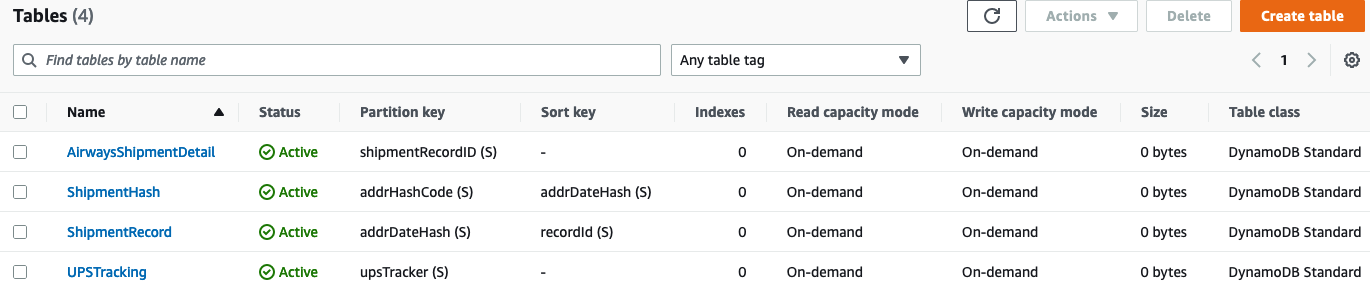
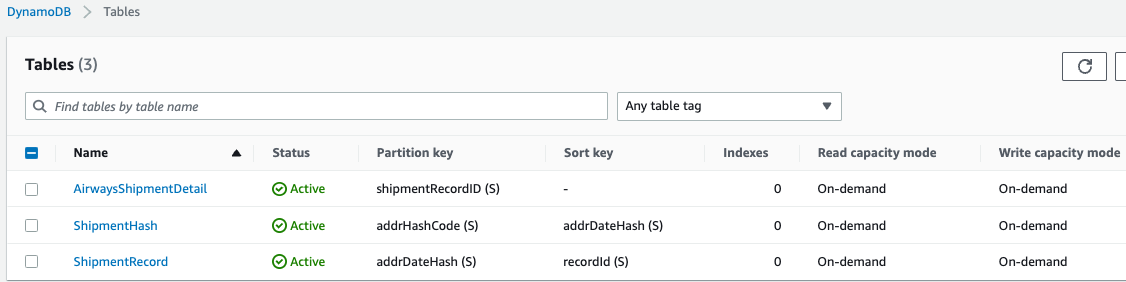
Remove UPSTracking table

diff --git a/functions/dynamodb_table_deletion/ddb_table_handler.py b/functions/dynamodb_table_deletion/ddb_table_handler.py
@@ -6,7 +6,6 @@ import uuid
 SHIPMENT_HASH_TABLE = os.getenv('SHIPMENT_HASH_TABLE')
 SHIPMENT_RECORD_TABLE = os.getenv('SHIPMENT_RECORD_TABLE')
 AIRWAYS_SHIPMENT_TABLE = os.getenv('AIRWAYS_SHIPMENT_TABLE')
-UPS_TRACKER_TABLE = os.getenv('UPS_TRACKER_TABLE')
 
 dynamodb = boto3.resource('dynamodb')
 
@@ -200,16 +199,11 @@ def deleteTableContentWithSortKey(tableName, partitionKey, projectionSortKey):
 def lambda_handler(event, context):
     """
     print('Deleting Table contents for Airways Shipping')
-
     deleteTableContent(AIRWAYS_SHIPMENT_TABLE, 'shipmentRecordID')
 
     # Faster to recreate ShipmentRecord Table
     recreateTable(SHIPMENT_RECORD_TABLE, 'addrDateHash', 'recordId')
     #deleteTableContentWithSortKey(SHIPMENT_RECORD_TABLE, 'addrDateHash', 'recordId')
-
-    # Faster to recreate UPSTracker Table
-    recreateTable(UPS_TRACKER_TABLE, 'upsTracker', None)
-    #deleteTableContent(UPS_TRACKER_TABLE, 'upsTracker')
 
     deleteTableContentWithSortKey(SHIPMENT_HASH_TABLE, 'addrHashCode', 'addrDateHash')
     """
@@ -219,7 +213,6 @@ def lambda_handler(event, context):
     # Faster to recreate Tables with on-demand capacity
     recreateTable(AIRWAYS_SHIPMENT_TABLE, 'shipmentRecordID', None)
     recreateTable(SHIPMENT_RECORD_TABLE, 'addrDateHash', 'recordId')
-    recreateTable(UPS_TRACKER_TABLE, 'upsTracker', None)
     recreateTable(SHIPMENT_HASH_TABLE, 'addrHashCode', 'addrDateHash')
 
 

diff --git a/README.md b/README.md
@@ -167,8 +167,8 @@ Whenever making changes to the code or SAM templates, rerun the sam build follow
 * Once this is verified, go to the `AggregationKickoffStateMachine2` Step Function and start a new execution. This would check the ShipmentRecordQueue for zero available messages indicating all have been ingested to start the actual aggregation.
 * Wait for the AggregationKickoff to complete.
 * Check the `UPSShipmentHandlerStateMachine5` execution stats to see the actual invocation of UPS or other carrier handling the shipping.
-* `UPSTracking` should contain records of ups tracker ids and related shipment record ids while the `ShipmentRecord` table should reflect the updated shipment records with related ups tracker ids.
-* For repeated runs as necessary, clean up the various tables once testing is done using the `DDBTableCleanupHandlerFunction` Lambda function. To speed up clean of very large `ShipmentRecord` and `UPSTracking` tables that can take time, it tries to directly delete and recreate the tables rather than deleting the records. It just deletes the rows only for smaller tables: `ShipmentHash` and `AirwaysShipmentDetail`.
+* The `ShipmentRecord` table should reflect the updated shipment records along with related UPS tracker ids.
+* For repeated runs as necessary, clean up the various tables once testing is done using the `DDBTableCleanupHandlerFunction` Lambda function. To speed up clean of large set of contents in `ShipmentRecord` table that can take time, it tries to directly delete and recreate the tables rather than deleting the records. It just deletes the rows only for smaller tables: `ShipmentHash` and `AirwaysShipmentDetail`.
 
 ## Monitoring
 
